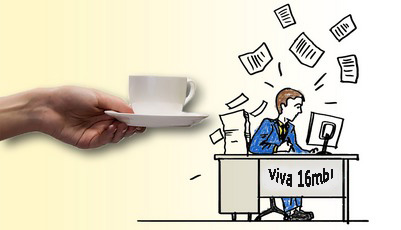
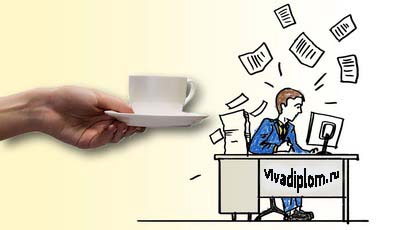
1

Changed region(s): [[0.6584, 0.7304, 0.8678, 0.913], [0.6284, 0.5174, 0.7781, 0.6696]]

diff --git a/requisites.php b/requisites.php
@@ -1,6 +1,6 @@
 <?php
-$site_name = "Viva.16mb.com";
-$site_url = "Viva.16mb.com";
-$email = "zakaz@viva.16mb.com";
-$email2 = "viva16mb@gmail.com";
+$site_name = "Vivadiplom.ru";
+$site_url = "Vivadiplom.ru";
+$email = "zakaz@vivadiplom.ru";
+$email2 = "vivadiplom.ru@gmail.com";
 $adres = "г. Москва, ул. Марии Ульяновой, д. 17а, оф. 234-236.";
